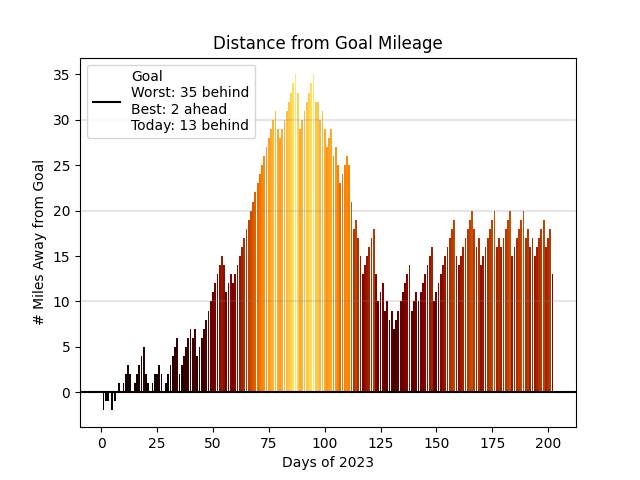
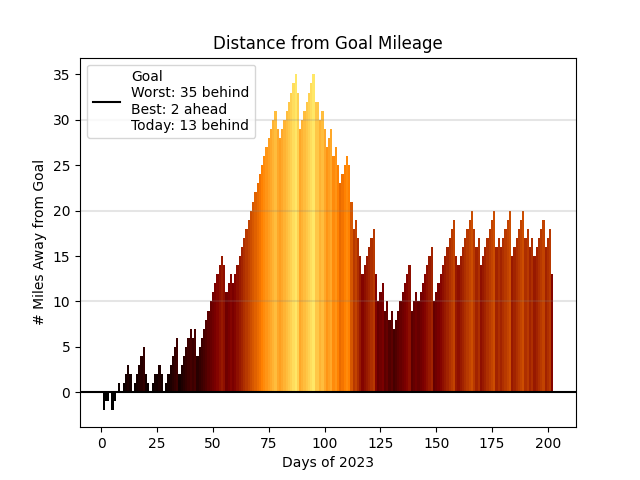
bars touching this looks so much sicker

Changed region(s): [[0.2188, 0.2188, 0.8438, 0.8125], [0.75, 0.9062, 0.7812, 0.9375]]

diff --git a/progress.py b/progress.py
@@ -174,7 +174,7 @@ if plot_difference:
     # df difference: map from 0 to 1
     # c=df[label+'_mins']
     # (X - np.mean(X))/(np.max(X) - np.min(X))
-    plt.bar(df['day'], df['difference'], color=my_colormap(df['difference']/50.0))
+    plt.bar(df['day'], df['difference'], width=1.0, color=my_colormap(df['difference']/50.0))
 
     worst = max(df['difference'])
     worst_desc = 'behind' if worst > 0 else 'ahead'
